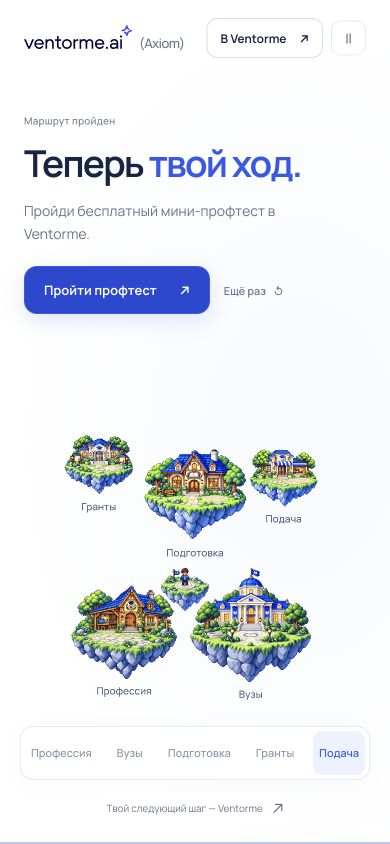
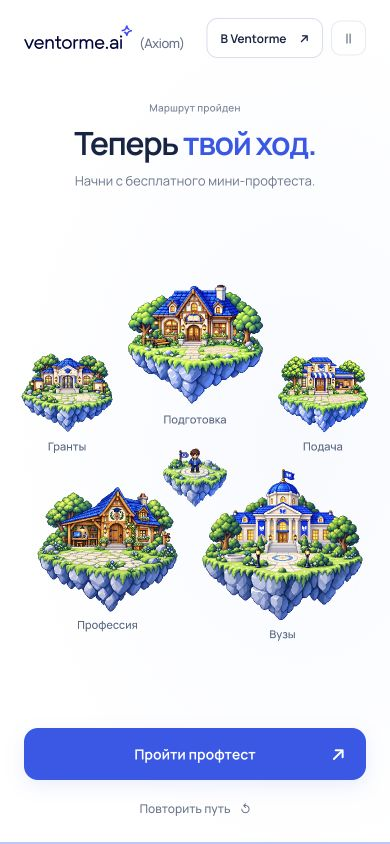
Redesign the phone finale around a clear map and registration action

diff --git a/src/components/pixel/ScrollJourney.tsx b/src/components/pixel/ScrollJourney.tsx
@@ -91,7 +91,7 @@ export default function ScrollJourney({registrationHref}:{registrationHref:strin
        const opacity=intro?(i===0?1:frame.returning?.15+.85*(1-ease(frame.local/.6)):.15*(1-ease(frame.local/.8))):final?1:i===frame.index?entry:frame.phase==='flight'&&i===frame.fromIndex?1-ease((frame.local-.8)/.2)*(1-distantOpacity):frame.phase==='flight'?distantOpacity*(1-ease(frame.local/.25)):distantOpacity;
        return <div key={loc.id} className={`journey-island island-${loc.id}`} style={{left:x-width/2,top:y-height*loc.ground,width,height,zIndex:Math.round(y+700),opacity}} data-island={loc.id}>
         <img className="journey-island-art" src={loc.image} alt={loc.alt} width={1254} height={1254} draggable={false} fetchPriority={i===0?'high':'low'} decoding="async"/>
-        <span className="journey-location-label" style={{opacity:i===0?0:frame.mapLabels,top:'102%',fontSize:mobile?10/k:Math.min(14,Math.max(10,11/k))}}>{mobile&&i>0?['Профессия','Вузы','Подготовка','Гранты','Подача'][i-1]:loc.name}</span>
+        <span className="journey-location-label" style={{opacity:i===0?0:frame.mapLabels,top:'102%',fontSize:mobile?11/k:Math.min(14,Math.max(10,11/k))}}>{mobile&&i>0?['Профессия','Вузы','Подготовка','Гранты','Подача'][i-1]:loc.name}</span>
         {i>0&&!intro&&!final&&(i===frame.index||i===frame.fromIndex)&&<div className="journey-action-layer" style={{left:'50%',top:`${loc.ground*100}%`}}><NativeStation location={{...loc,width}} progress={action} seconds={i===frame.index?playback.current.sceneSeconds:0}/></div>}
        </div>;
       })}
@@ -104,7 +104,8 @@ export default function ScrollJourney({registrationHref}:{registrationHref:strin
     </div>
 
     <div className="journey-final-copy" style={{opacity:final?frame.copyOpacity:0,visibility:final?'visible':'hidden'}} inert={!final}>
-     <span className="journey-eyebrow">Маршрут пройден</span><h2>Теперь <em>твой ход.</em></h2><p>Пройди бесплатный мини-профтест в Ventorme.</p><a className="journey-cta" href={registrationHref}>Пройти профтест <span>↗</span></a><button className="journey-replay" disabled={busy} onClick={()=>go(0)} aria-label="Повторить путь"><span className="replay-label-full">Повторить путь</span><span className="replay-label-mobile" aria-hidden="true">Ещё раз</span> <span>↺</span></button>
+     <div className="journey-final-heading"><span className="journey-eyebrow">Маршрут пройден</span><h2>Теперь <em>твой ход.</em></h2><p><span className="final-copy-full">Пройди бесплатный мини-профтест в Ventorme.</span><span className="final-copy-short">Начни с бесплатного мини-профтеста.</span></p></div>
+     <div className="journey-final-actions"><a className="journey-cta" href={registrationHref}>Пройти профтест <span>↗</span></a><button className="journey-replay" disabled={busy} onClick={()=>go(0)} aria-label="Повторить путь"><span className="replay-label-full">Повторить путь</span><span className="replay-label-mobile" aria-hidden="true">Ещё раз</span> <span>↺</span></button></div>
     </div>
     <div className="journey-bottom" style={{opacity:intro?.65:1}}><nav className="journey-chapters" aria-label="Этапы поступления">{sceneLocations.slice(1).map((loc,i)=><button key={loc.id} disabled={busy||i+1>furthest.current} className={frame.index===i+1?'current':''} aria-current={frame.index===i+1?'step':undefined} onClick={()=>go(sceneStart(i+1)+.36)} aria-label={`${loc.name}. Перейти к сцене`}><span className="chapter-name chapter-name-full">{loc.name}</span><span className="chapter-name chapter-name-compact" aria-hidden="true">{['Профессия','Вузы','Подготовка','Гранты','Подача'][i]}</span></button>)}</nav><span className="journey-scroll-hint">{busy?(frame.phase==='scene'?'Осматриваемся':'Герой в пути'):final?'Твой следующий шаг — Ventorme':'Листай дальше'} <span>{busy?'·':final?'↗':'↓'}</span></span></div>
     <div className="journey-progress" aria-hidden="true"><span style={{transform:`scaleX(${final?1:travel/JOURNEY_END})`}}/></div>

diff --git a/src/components/pixel/journey.css b/src/components/pixel/journey.css
@@ -59,3 +59,25 @@
 @media(max-width:1024px) and (max-height:500px) and (orientation:landscape){.journey-header{height:58px}.journey-viewport{min-height:0}.journey-copy,.journey-final-copy{top:80px;width:39%;left:24px}.journey-copy h1,.journey-final-copy h2{font-size:30px}.journey-scene-copy h2{font-size:26px}.journey-copy p,.journey-final-copy p{font-size:12px;margin-top:10px}.journey-cta{margin-top:14px;min-height:42px;padding:10px 15px}.journey-bottom{bottom:10px;gap:5px}.journey-chapters button{min-height:44px}.journey-scroll-hint{display:none}}
 
 @media(max-height:700px) and (max-width:760px) and (orientation:portrait){.journey-final-copy h2{font-size:32px}.journey-final-copy p{font-size:13px;margin-top:12px}.journey-final-copy .journey-cta{font-size:12px;min-height:44px;gap:16px;padding:11px 15px;margin-top:16px}.journey-final-copy .journey-replay{margin-top:16px}.journey-chapters button{font-size:10px}}
+
+.final-copy-short{display:none}
+@media(max-width:760px) and (orientation:portrait){
+ .scroll-landing[data-phase=final] .journey-bottom{opacity:0!important;visibility:hidden;pointer-events:none}
+ .journey-final-copy{inset:0;width:100%;max-width:none;pointer-events:none}
+ .journey-final-heading{position:absolute;top:100px;left:24px;right:24px;text-align:center}
+ .journey-final-heading h2{font-size:clamp(30px,8.2vw,38px);line-height:1.12;margin-top:9px;letter-spacing:-.045em;text-wrap:balance}
+ .journey-final-heading p{font-size:13px;line-height:1.5;margin:10px auto 0;max-width:none}
+ .final-copy-full{display:none}.final-copy-short{display:inline}
+ .journey-final-actions{position:absolute;left:24px;right:24px;bottom:calc(14px + env(safe-area-inset-bottom,0px));display:flex;flex-direction:column;gap:6px;pointer-events:auto}
+ .journey-final-actions .journey-cta{position:relative;display:flex;width:100%;min-height:52px;margin:0;padding:15px 48px;border-radius:14px;font-size:14px;justify-content:center;box-shadow:0 6px 18px #3159ed1a}
+ .journey-final-actions .journey-cta>span{position:absolute;right:20px;font-size:18px}
+ .journey-final-actions .journey-replay{display:flex;justify-content:center;gap:10px;min-height:44px;margin:0;padding:10px;font-size:12px;font-weight:500}
+ .journey-final-actions .replay-label-full{display:inline}.journey-final-actions .replay-label-mobile{display:none}
+}
+@media(max-width:760px) and (max-height:620px) and (orientation:portrait){
+ .journey-final-heading{top:82px;left:20px;right:20px}
+ .journey-final-heading h2{font-size:30px;margin-top:8px}
+ .journey-final-heading p{font-size:12px;margin-top:8px}
+ .journey-final-actions{left:20px;right:20px;bottom:10px;gap:4px}
+ .journey-final-actions .journey-cta{min-height:48px;padding-block:12px;font-size:13px}
+}

diff --git a/src/components/pixel/journeyPlayback.ts b/src/components/pixel/journeyPlayback.ts
@@ -4,8 +4,11 @@ export const isCompactViewport=(w:number,h:number)=>w<=760||(w<=1024&&h<=500);
 
 export function mapLocations(w:number,h:number):Location[]{
  const mobile=isCompactViewport(w,h);
- // Original IslandPosition layout, measured in the same 1000-unit map plane.
- const coords=mobile?[
+ // Keep the desktop map; portrait uses a compact orbit around the home island.
+ const coords=mobile&&w<=h?[
+  [0,0,230],[-260,260,430],[260,260,500],
+  [0,-350,430],[-380,-210,280],[380,-210,280],
+ ]:mobile?[
   [0,0,230],[-240,.0504*h*1000/w+106.2,430],[260,.0294*h*1000/w+137.1,500],
   [40,-.2016*h*1000/w+106.2,430],[-340,-.231*h*1000/w+47.9,280],[390,-.21*h*1000/w+50.7,280],
  ]:[[0,0,160],[-220,179,380],[330,123,520],[90,-269,345],[-200,-368,205],[450,-325,235]];
@@ -71,10 +74,10 @@ export function finalCamera(w:number,h:number){
  const islands=mapLocations(w,h);
  const top=Math.min(...islands.map(loc=>loc.y-loc.width*loc.ground));
  const bottom=Math.max(...islands.map(loc=>loc.y+loc.width*(1-loc.ground)+42));
- const landscape=w>h,areaTop=landscape?65:h<620?Math.min(295,h*.52):h<700?300:h*.49,areaBottom=landscape?h-90:h-135;
+ const landscape=w>h,areaTop=landscape?65:h<620?185:205,areaBottom=landscape?h-90:h-146;
  const left=Math.min(...islands.map(loc=>loc.x-loc.width/2)),right=Math.max(...islands.map(loc=>loc.x+loc.width/2));
- const width=Math.max(1540,(bottom-top)*w/Math.max(100,areaBottom-areaTop),landscape?(right-left)/.52:0);
- return{...camera,x:landscape?(left+right)/2-.23*width:camera.x,width,y:(top+bottom)/2-((areaTop+areaBottom)/2-h/2)*width/w};
+ const width=Math.max((bottom-top)*w/Math.max(100,areaBottom-areaTop),landscape?Math.max(1540,(right-left)/.52):(right-left)*w/(w-40));
+ return{...camera,x:landscape?(left+right)/2-.23*width:(left+right)/2,width,y:(top+bottom)/2-((areaTop+areaBottom)/2-h/2)*width/w};
 }
 /** Scroll requests a destination. A running hop always reaches its landing, even if scroll stops. */
 export class JourneyPlayback{

diff --git a/docs/mobile-qa.md b/docs/mobile-qa.md
@@ -9,7 +9,7 @@
 - `min-height:620px` у сцены выводил навигацию за нижнюю границу короткого экрана: мобильная сцена занимает доступный `100svh` без этого ограничения.
 - Длинные подписи выталкивали последнюю кнопку: на телефоне используются «Профессия», «Вузы», «Подготовка», «Гранты», «Подача». Доступные названия кнопок сохраняют полные названия этапов.
 - Кнопки этапов имеют высоту не менее 44px; у компактного переключателя движения расширена зона нажатия. Подсказка прокрутки имеет белую подложку, чтобы не теряться поверх скал.
-- На финальной карте масштаб учитывает свободное место над навигацией; мобильные подписи держат экранный размер 10px при уменьшении островов. Кнопка повторения подписана «Ещё раз» и располагается рядом с основным действием.
+- Вертикальный финал собран отдельно: заголовок сверху, острова вокруг героя по центру, кнопка профтеста на всю ширину снизу и повтор пути под ней. Панель этапов в финале скрывается. Масштаб карты учитывает место между заголовком и действиями; подписи имеют экранный размер 11px. Подпись библиотеки отделена от героя. Десктопное расположение сохранено.
 - При изменении высоты или повороте окна сохраняется текущий этап; страница больше не уезжает к футеру из-за старого scrollY.
 
 ## Проверенные сценарии
@@ -31,3 +31,5 @@
 Скриншоты лежат в `docs/mobile-qa/`: начало, библиотека и финальная карта 390×844; короткий экран 320×568; горизонтальный первый экран.
 
 Это проверка адаптивного интерфейса в браузере с изменённым viewport. Реальные iPhone/Android, Safari, системные панели, аппаратные свайпы и производительность на слабом устройстве отдельно не проверялись. Геометрические тесты и клавиатурные/scroll-команды подтверждают логику, но не заменяют проверку реальным пальцем на устройстве.
+
+Обновлённый финал дополнительно проверен на 320×568, 375×667, 390×844 и 430×932. Перекрытий между заголовком, подписями и кнопками нет; повтор пути возвращает героя на старт.
